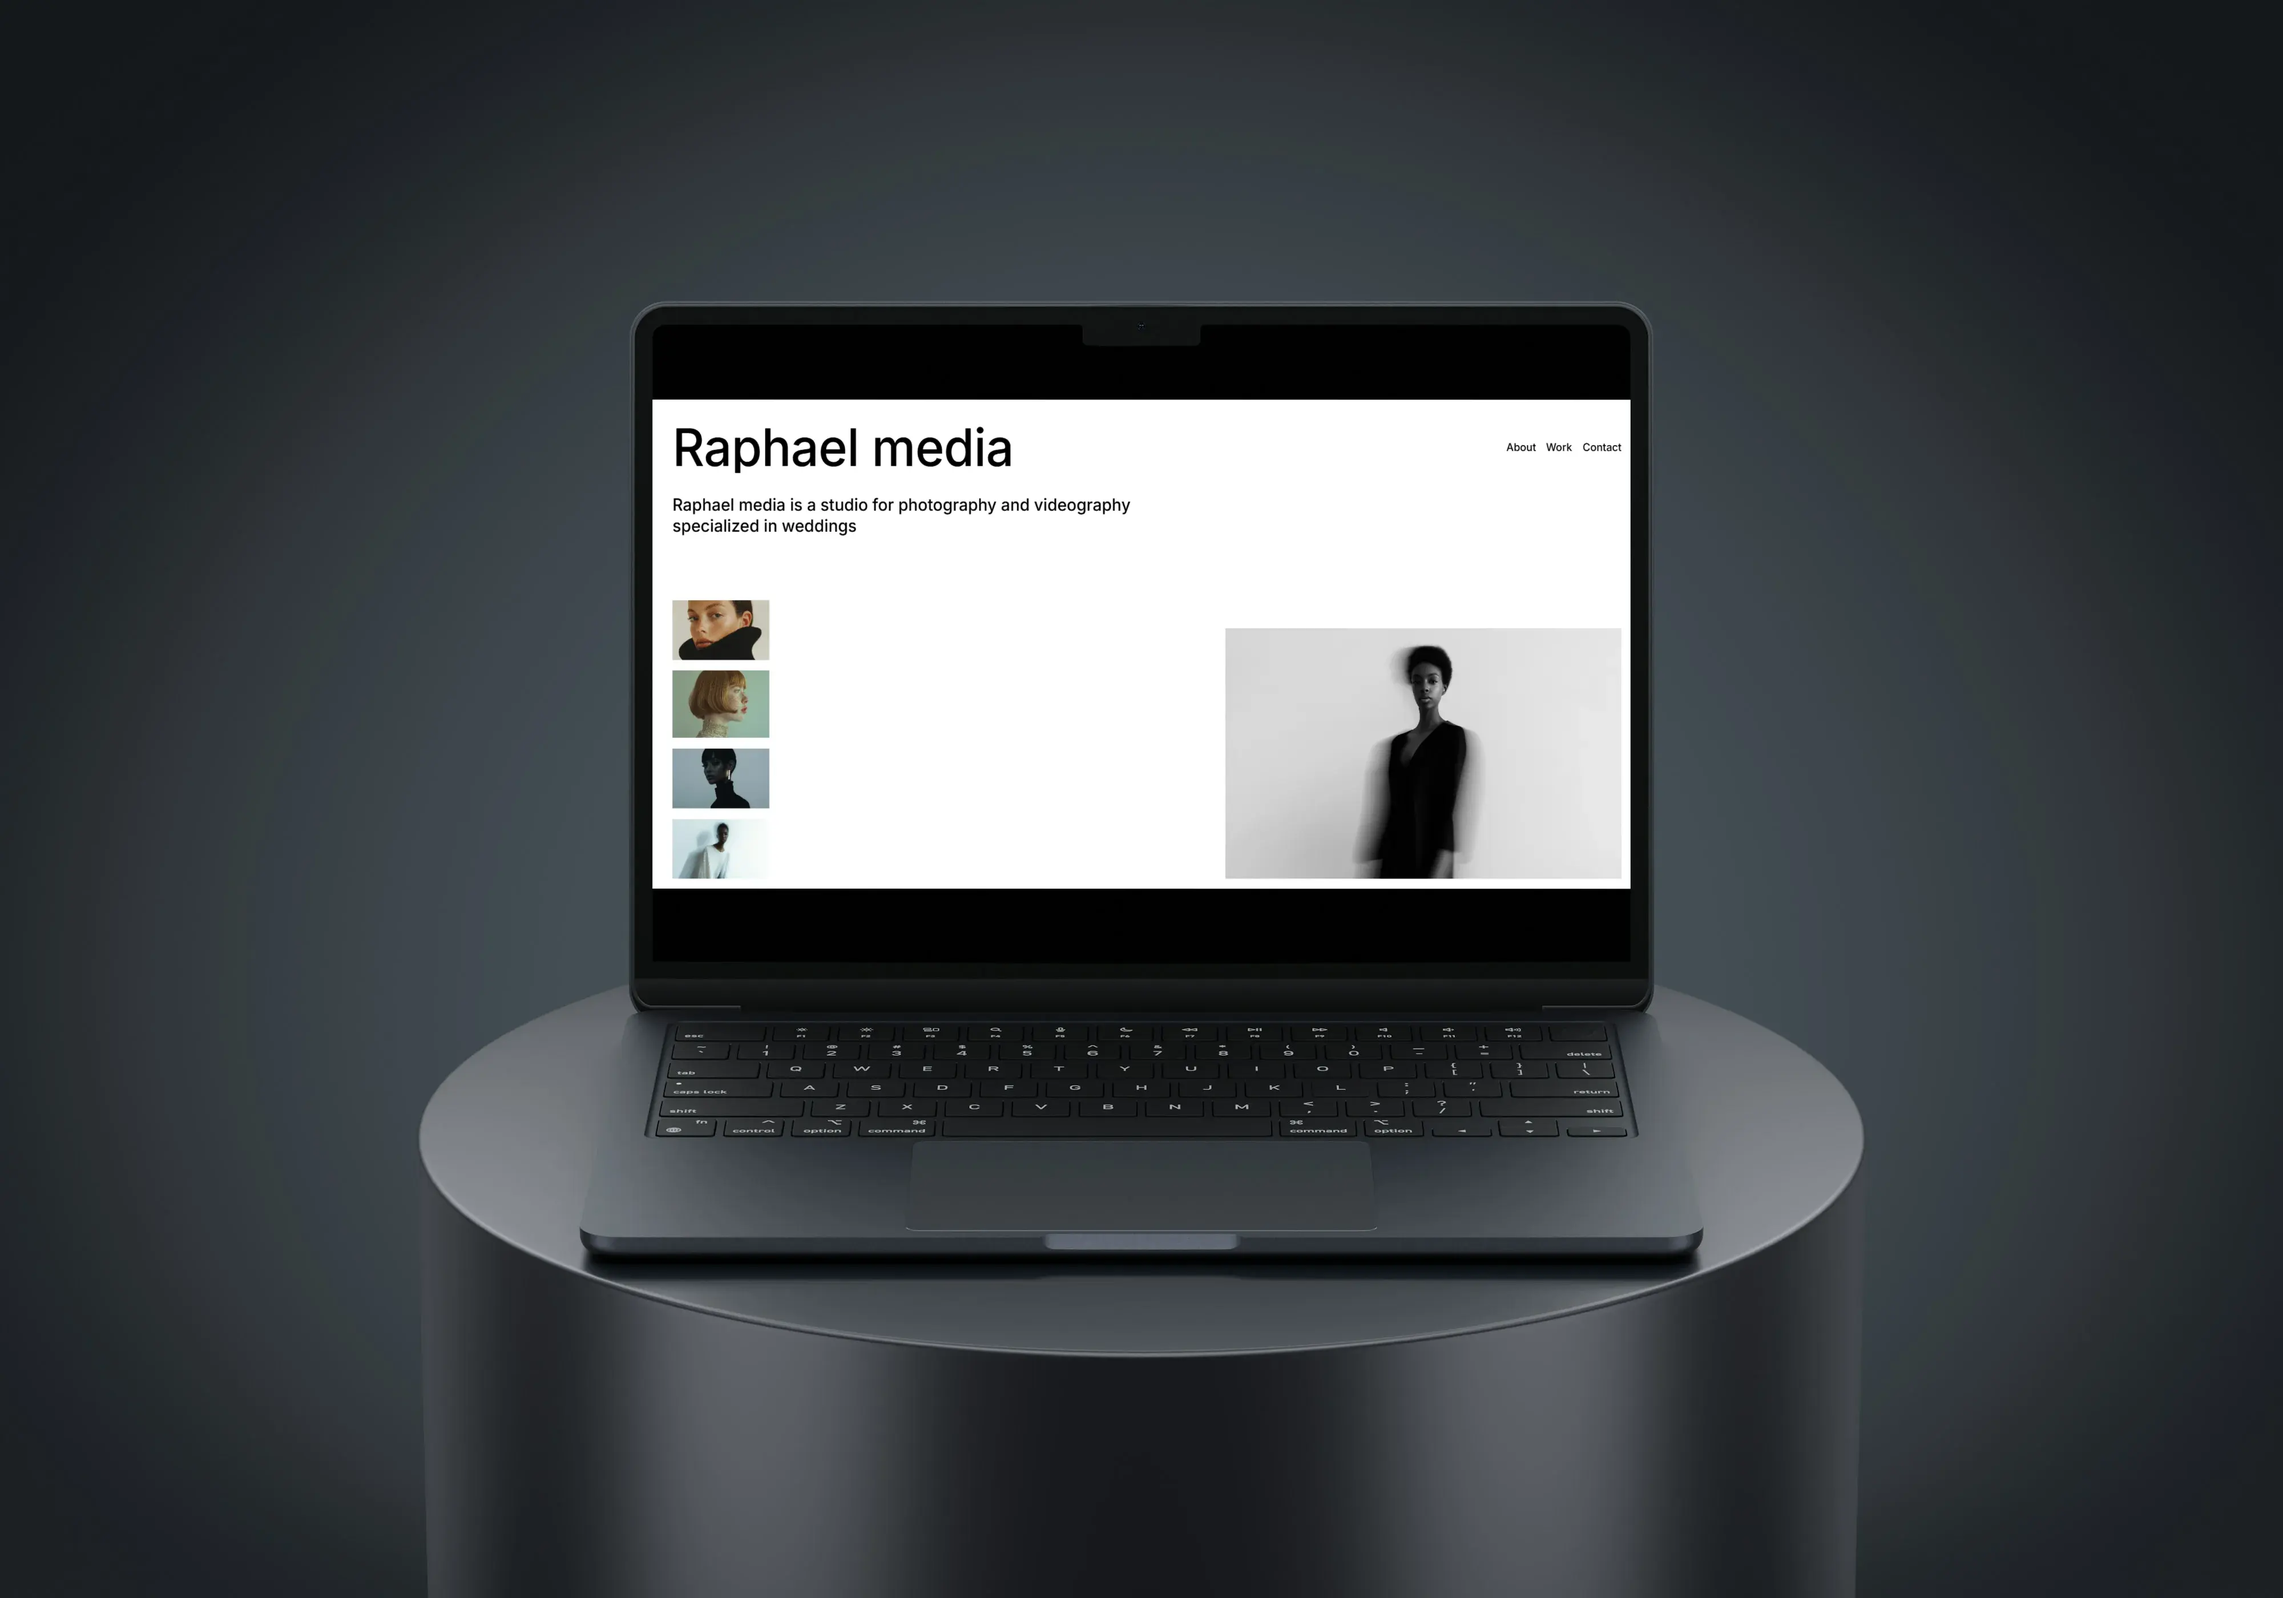
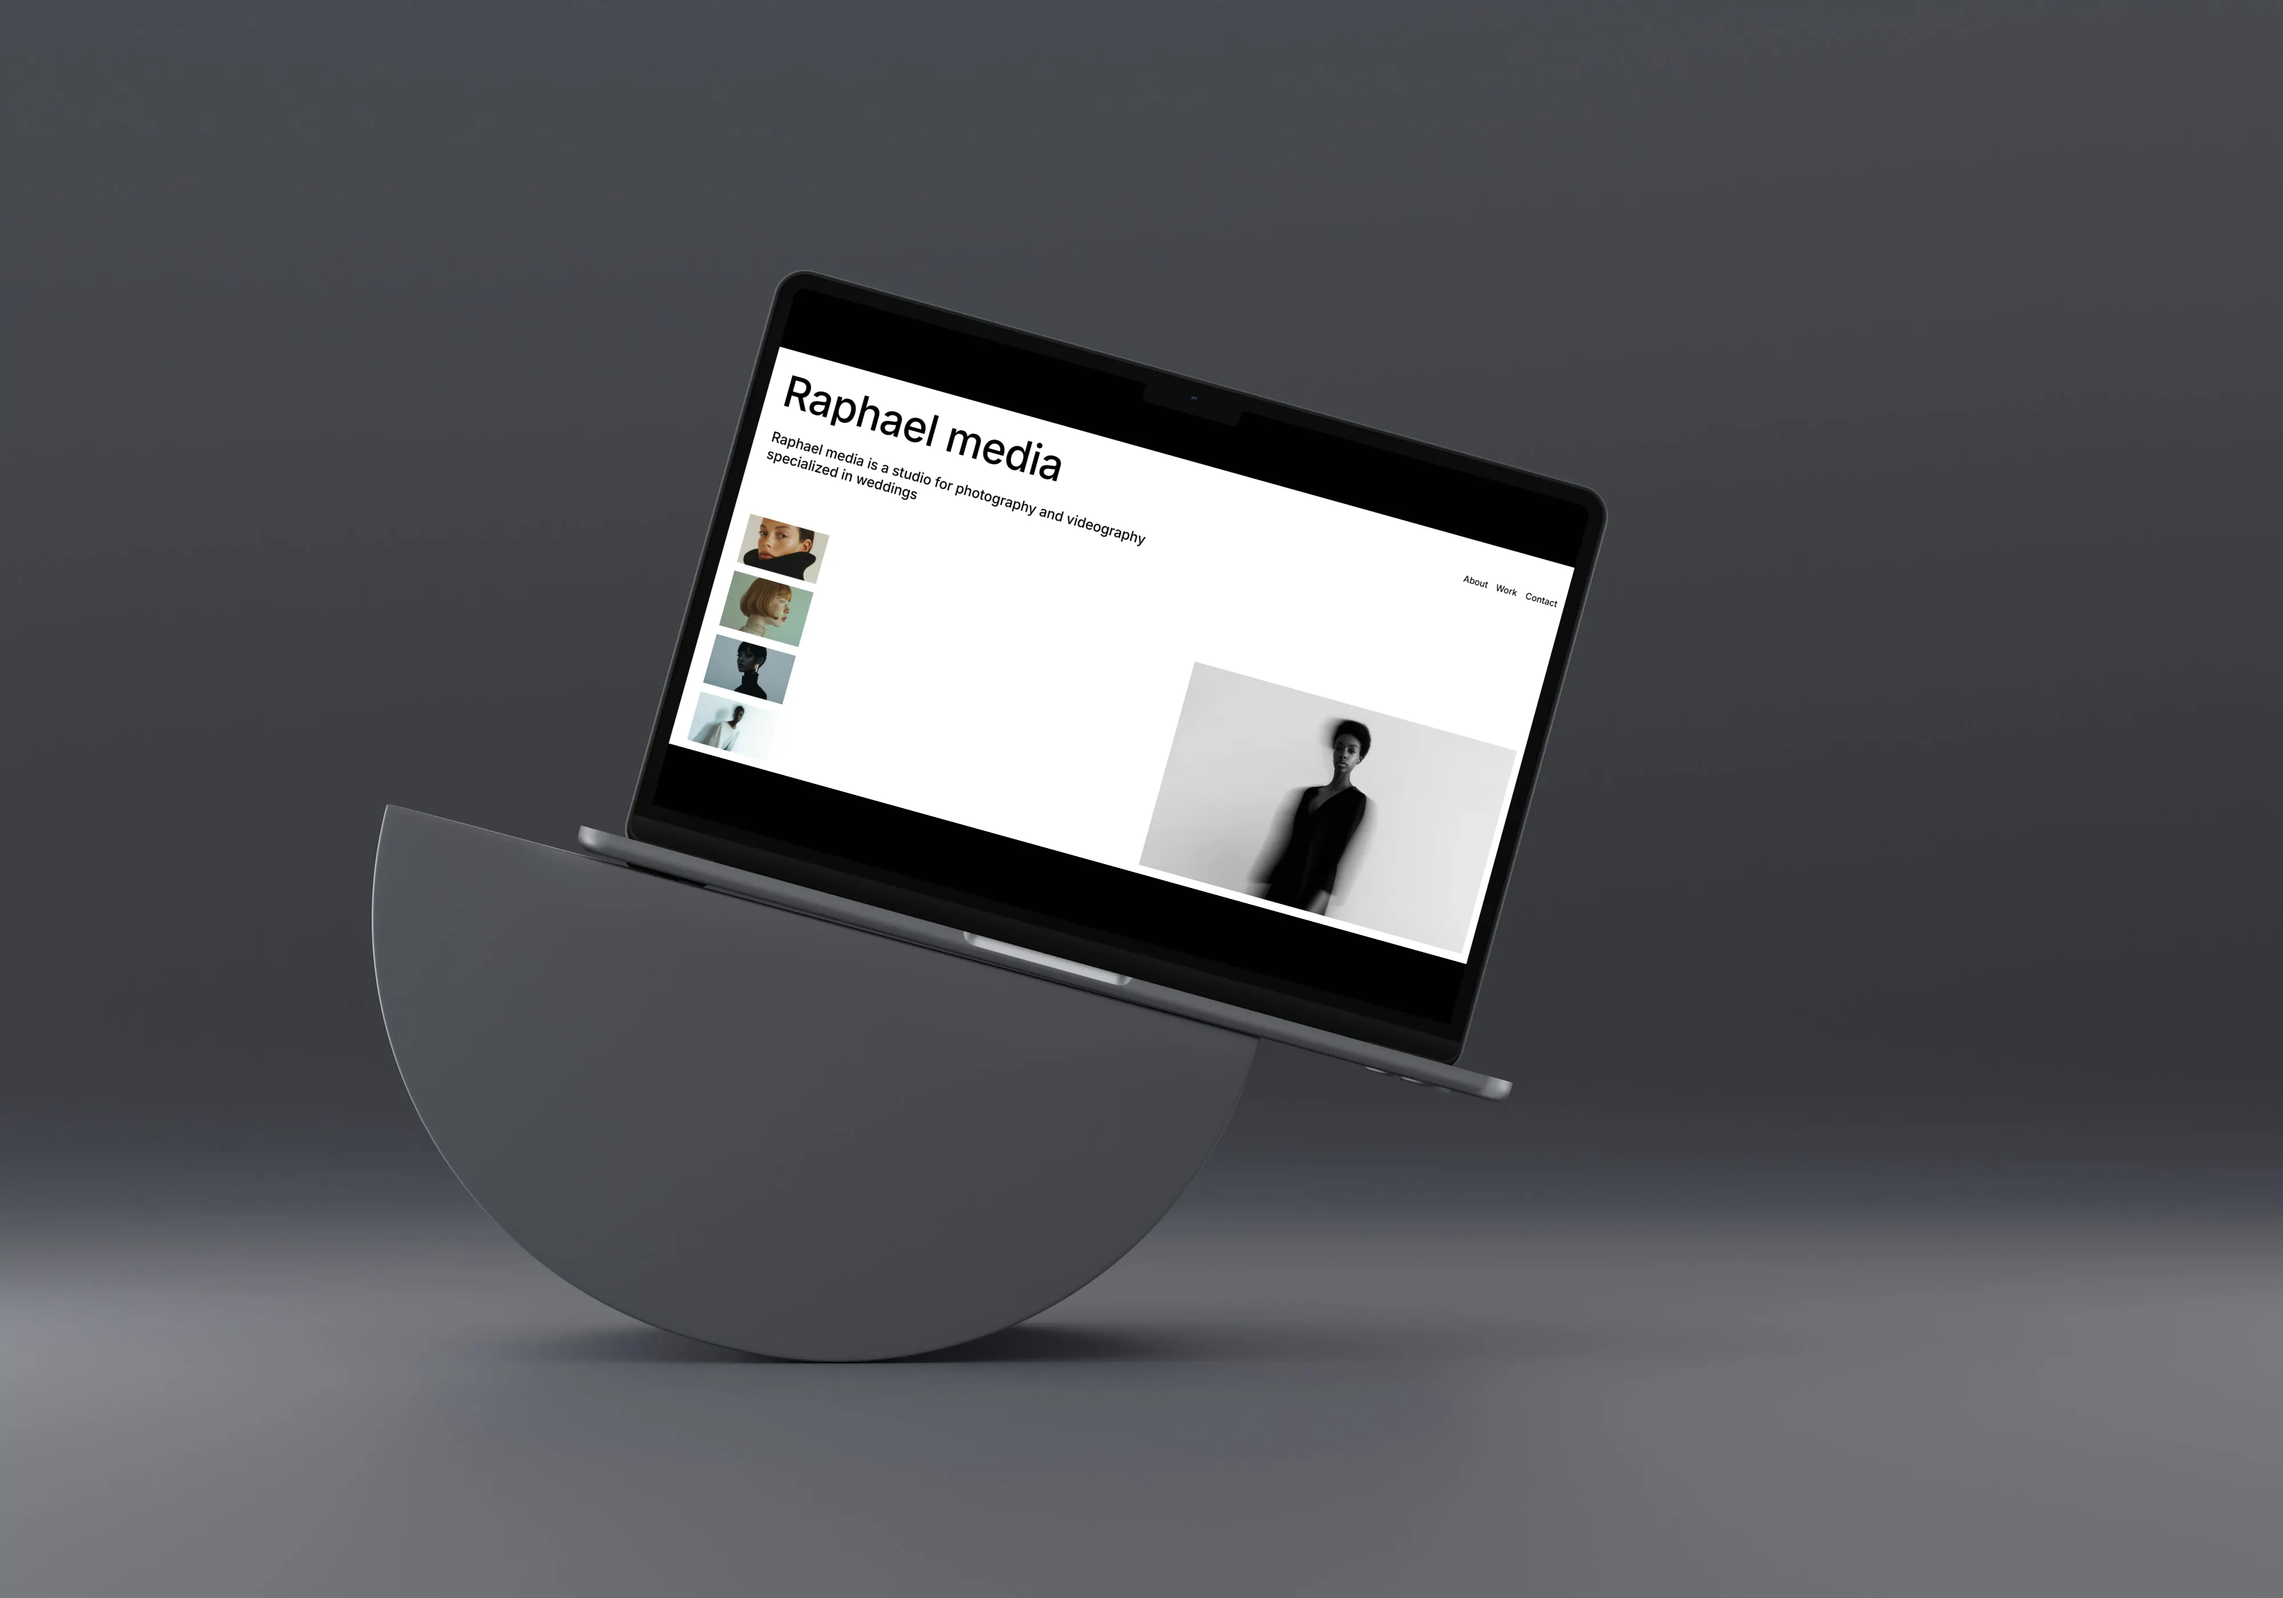
image update

diff --git a/src/components/Nav/Nav.jsx b/src/components/Nav/Nav.jsx
@@ -201,7 +201,7 @@ const Nav = () => {
               <Link href="/" onClick={closeMenu}>Home</Link>
             </div>
             <div className="link">
-              <Link href="/Works" onClick={closeMenu}>Our Works</Link>
+              <Link href="/Works" onClick={closeMenu}>Portfolio</Link>
             </div>
             <div className="link">
               <Link href="/" onClick={closeMenu}>Services</Link>
